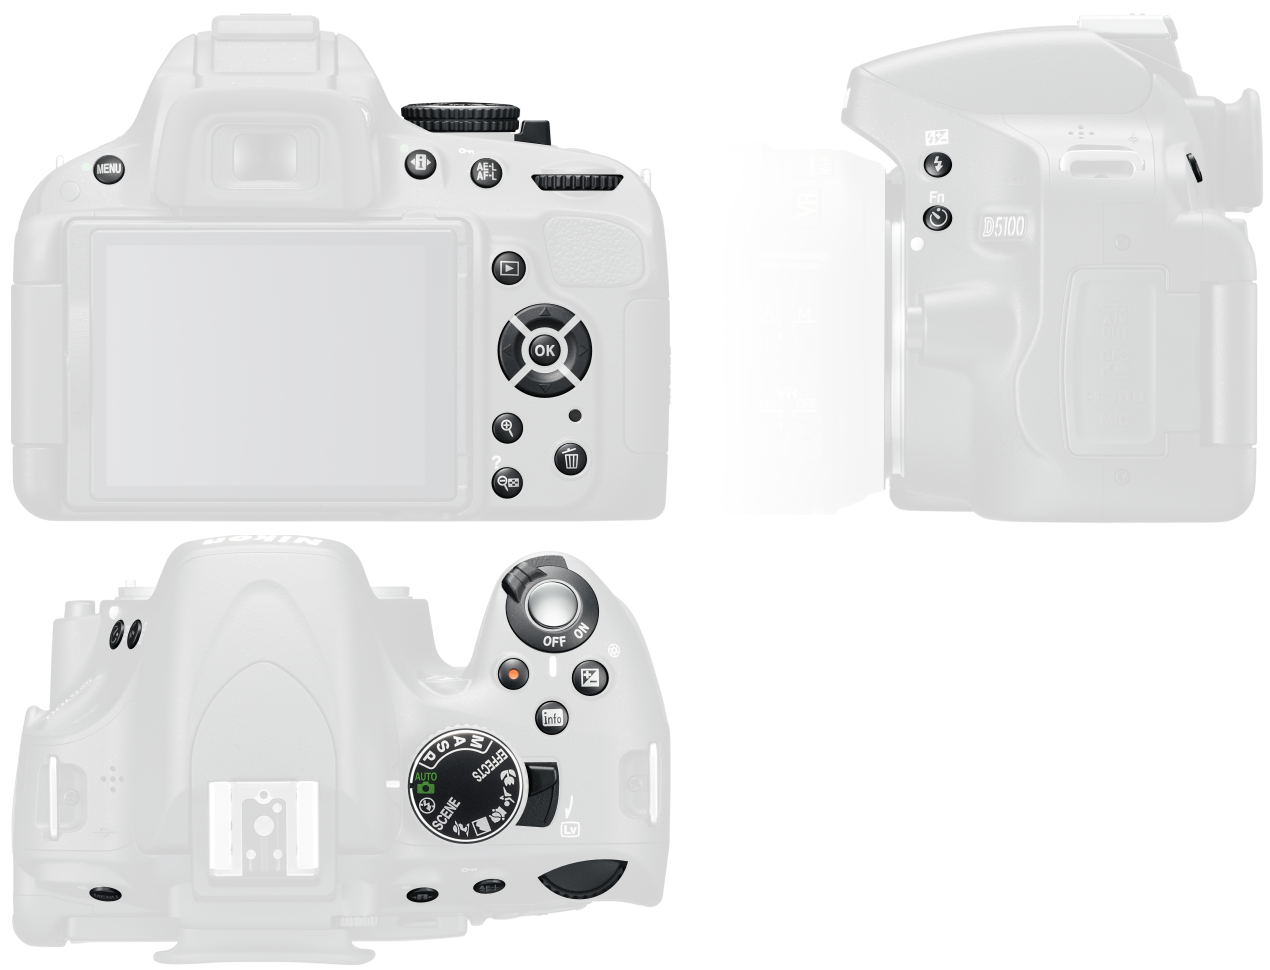
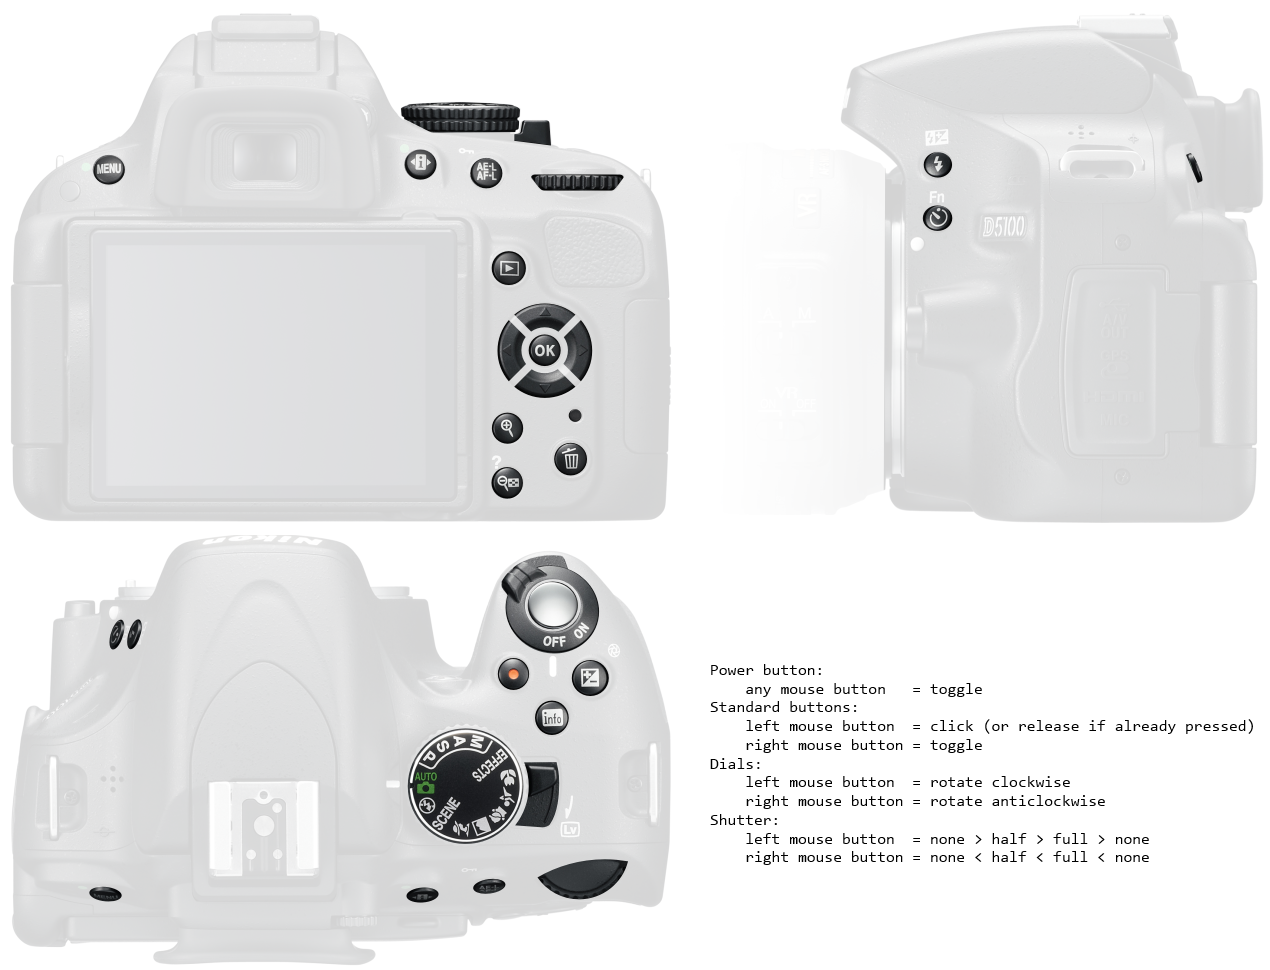
Added help to background image

diff --git a/Java/Emulator/src/main/com/nikonhacker/gui/component/frontPanel/FrontPanelFrame.java b/Java/Emulator/src/main/com/nikonhacker/gui/component/frontPanel/FrontPanelFrame.java
@@ -30,13 +30,6 @@ public class FrontPanelFrame extends DocumentFrame {
 
             panel.setImage(background);
 
-              // TODO add this help to Background image
-//            System.out.println("Help:");
-//            System.out.println("Standard buttons: left mouse button = click (or release already pressed), right mouse button = toggle");
-//            System.out.println("Off/On buttons: any mouse button = toggle");
-//            System.out.println("Dials: left mouse button = rotate clockwise, right mouse button = rotate anticlockwise");
-//            System.out.println("Shutter: left mouse button = none > half > full, right mouse button = none < half < full");
-
             for (String key : frontPanel.getButtons().keySet()) {
                 addButton(panel, IMG_DIR, bgWidth, bgHeight, frontPanel.getButtons().get(key));
             }
